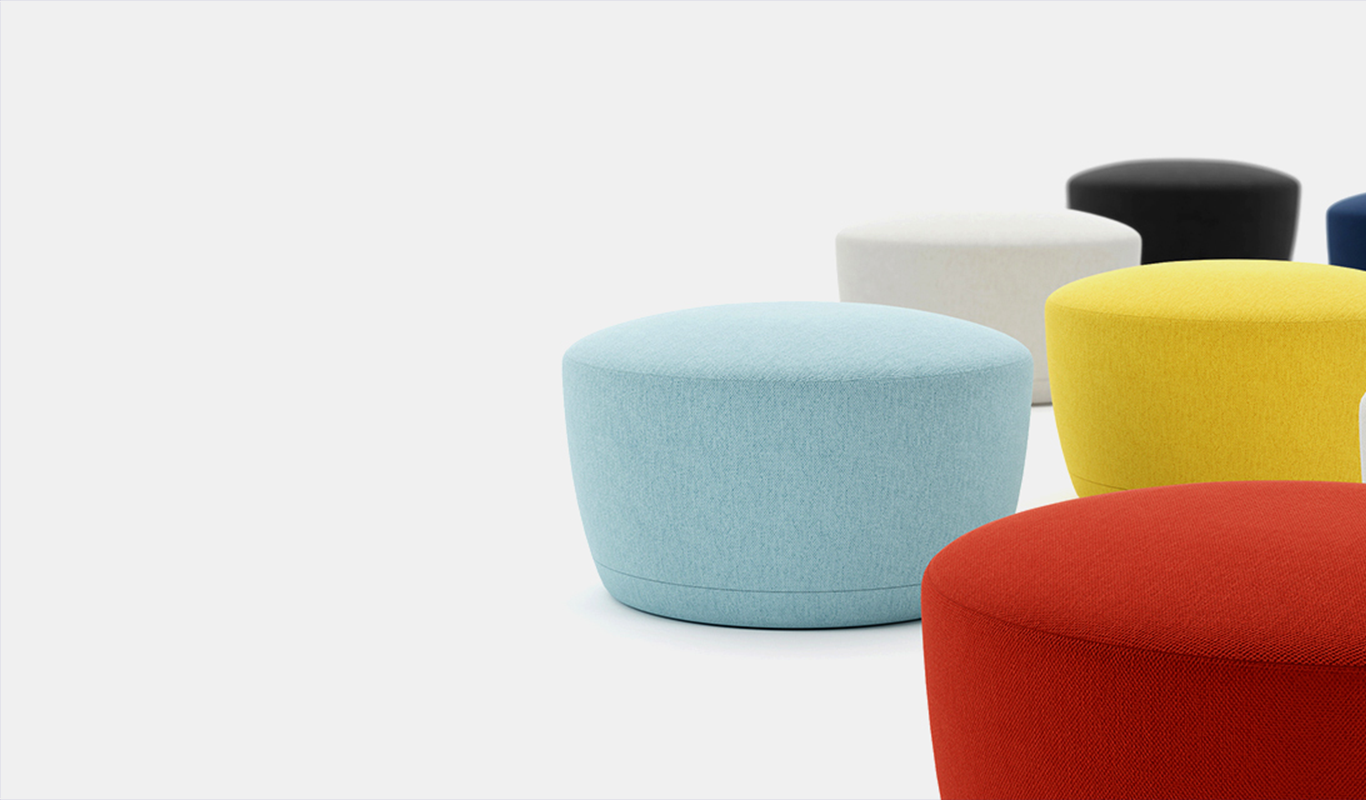
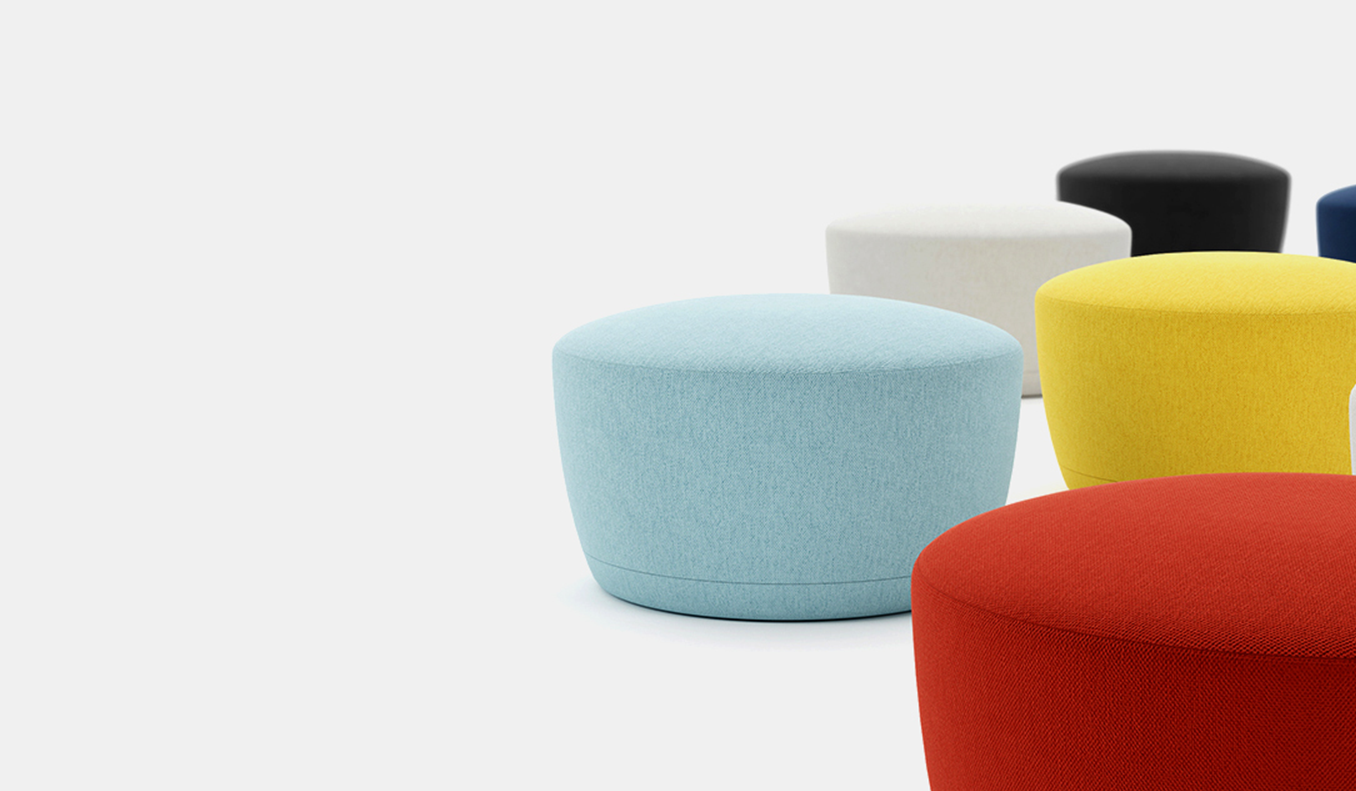
Tab-control. Done.

diff --git a/css/style.css b/css/style.css
@@ -125,7 +125,7 @@ body {
 
 .slider {
   position: relative;
-  background: url(../img/slider.png) no-repeat;
+  background: #f0f0f0 url(../img/slider.png) no-repeat 100%;
   display: -webkit-box;
   display: -ms-flexbox;
   display: flex;
@@ -234,5 +234,49 @@ body {
           align-items: center;
   height: 40px;
   width: 100%;
+}
+
+.featured {
+  padding: 120px 100px;
+}
+
+.tab-control {
+  display: -webkit-box;
+  display: -ms-flexbox;
+  display: flex;
+  -webkit-box-pack: justify;
+      -ms-flex-pack: justify;
+          justify-content: space-between;
+}
+
+.tab-control__menu {
+  display: -webkit-box;
+  display: -ms-flexbox;
+  display: flex;
+  padding-left: 0;
+  -webkit-box-pack: start;
+      -ms-flex-pack: start;
+          justify-content: flex-start;
+  border-bottom: 1px solid #6c6c6c;
+}
+
+.tab-control__item {
+  height: 50px;
+  font-family: "Montserrat-Bold";
+  font-size: 36px;
+  font-weight: 700;
+  color: #6c6c6c;
+  margin-right: 30px;
+  border-bottom: 3px solid transparent;
+}
+
+.tab-control__item:hover {
+  color: #212121;
+  border-bottom: 3px solid #212121;
+}
+
+.tab-control__button {
+  -webkit-box-shadow: none;
+          box-shadow: none;
 }
 /*# sourceMappingURL=style.css.map */

diff --git a/index.html b/index.html
@@ -24,7 +24,7 @@
   <!-- navbar -->
   
   <div class="slider">
-    <div class="patch"></div>
+    <!-- <div class="patch"></div> -->
     <div class="slider-content">
       <h4>TRENDING</h4>
       <h3>FISHNET CHAIR</h3>
@@ -39,6 +39,17 @@
     </div>
   </div>
   <!-- slider   -->
+  <div class="featured">
+    <div class="tab-control">
+      <ul class="menu tab-control__menu">
+        <li class="tab-control__item"><a href="#"></a>Featured</li>
+        <li class="tab-control__item"><a href="#"></a>New</li>
+      </ul>
+      <button class="button tab-control__button" type="button">Explore All ></button>
+    </div>
+
+  </div>
+  <!-- /.featured -->
 
   <footer class="footer"></footer>
   

diff --git a/sass/_tab-control.sass b/sass/_tab-control.sass
@@ -1,0 +1,22 @@
+.tab-control
+  display: flex
+  justify-content: space-between
+  &__menu
+    display: flex
+    padding-left: 0
+    justify-content: flex-start
+    border-bottom: 1px solid #6c6c6c
+  &__item
+    height: 50px
+    font-family: "Montserrat-Bold"
+    font-size: 36px
+    font-weight: 700
+    color: #6c6c6c
+    margin-right: 30px
+    border-bottom: 3px solid transparent
+    &:hover
+      color: #212121
+      border-bottom: 3px solid #212121
+  &__button
+    box-shadow: none
+

diff --git a/sass/_slider.sass b/sass/_slider.sass
@@ -1,6 +1,6 @@
 .slider
   position: relative
-  background: url(../img/slider.png) no-repeat
+  background:#f0f0f0 url(../img/slider.png) no-repeat 100%
   display: flex
   flex-direction: column
   justify-content: center

diff --git a/sass/style.sass b/sass/style.sass
@@ -14,4 +14,6 @@
 @import 'circle-small'
 @import 'circle'
 @import 'slider-control'
+@import 'featured'
+@import 'tab-control'
 @import 'footer'

diff --git a/sass/_featured.sass b/sass/_featured.sass
@@ -1,0 +1,2 @@
+.featured
+  padding: 120px 100px
